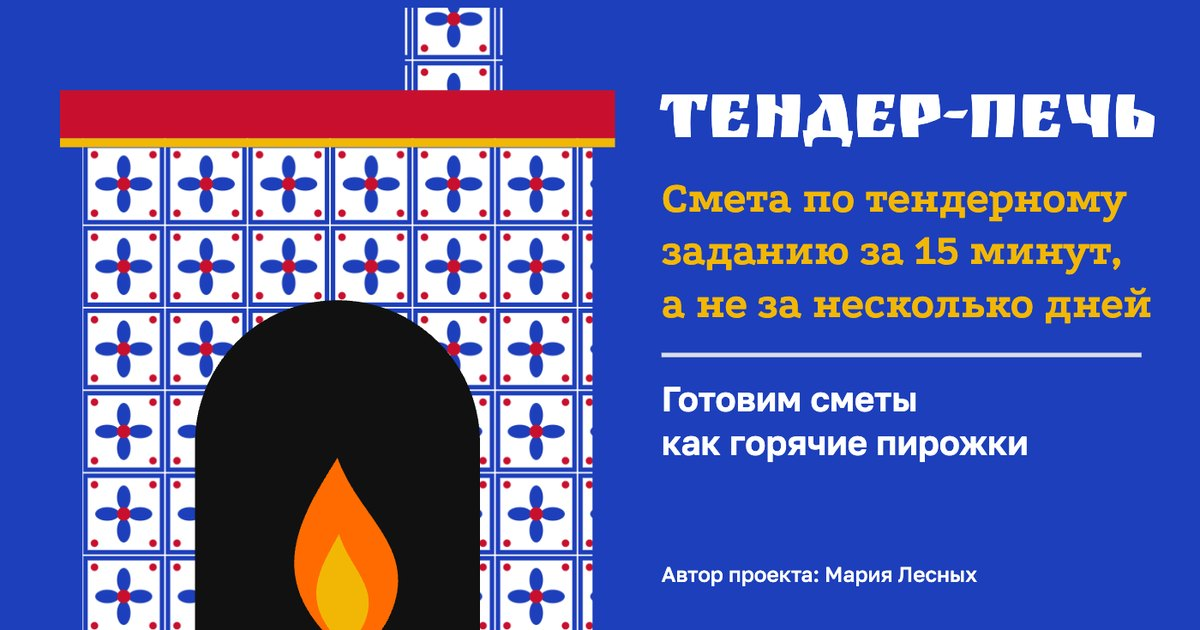
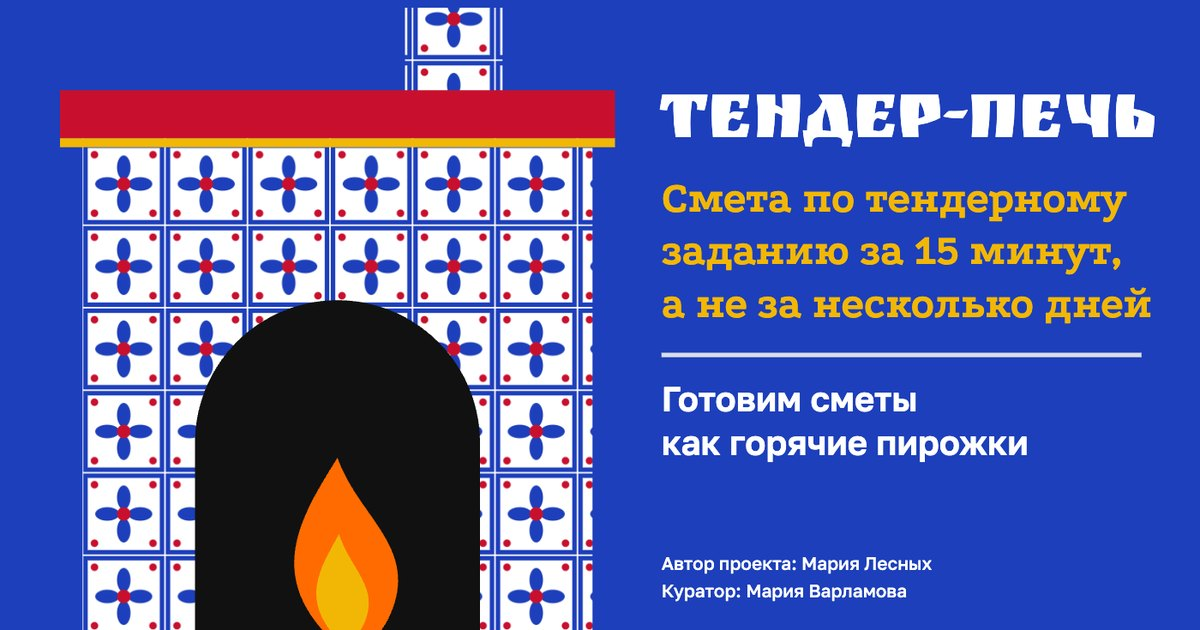
Презентация: «Куратор: Мария Варламова», подписи на первом экране мельче

Changed region(s): [[0.555, 0.8746, 0.8325, 0.9651]]

diff --git a/prezentaciya/index.html b/prezentaciya/index.html
@@ -5,7 +5,7 @@
 <meta name="viewport" content="width=device-width, initial-scale=1, viewport-fit=cover">
 <meta name="robots" content="noindex, nofollow">
 <title>Тендер-Печь · презентация</title>
-<meta name="description" content="Тендер-Печь: смета по тендерному заданию за 15 минут, а не за несколько дней. Разработка тендерного отдела, чтобы быстро считать тендерные предложения и больше зарабатывать. Автор проекта: Мария Лесных.">
+<meta name="description" content="Тендер-Печь: смета по тендерному заданию за 15 минут, а не за несколько дней. Разработка тендерного отдела, чтобы быстро считать тендерные предложения и больше зарабатывать. Автор проекта: Мария Лесных. Куратор: Мария Варламова.">
 <meta property="og:title" content="Тендер-Печь">
 <meta property="og:description" content="Смета по тендерному заданию за 15 минут, а не за несколько дней">
 <meta property="og:type" content="website">
@@ -417,7 +417,7 @@ button{font:inherit}
 <body>
 <svg width="0" height="0" style="position:absolute" aria-hidden="true" focusable="false"><defs><symbol id="i-tz" viewBox="0 0 48 48"><rect width="48" height="48" rx="13" fill="#1D3FBB"/><rect x="4" y="4" width="40" height="40" rx="10" fill="none" stroke="#fff" stroke-opacity=".32" stroke-width="1.5"/><path fill="none" stroke="#fff" stroke-width="3.5" stroke-linecap="round" stroke-linejoin="round" d="M11 11h12l7 7v19H11z M23 11v7h7 M20.5 32V22 M16.5 26l4-4 4 4"/><g transform="translate(30 26) scale(1.05)"><path d="M6 16C1.6 13.2 3 8.4 6 2.5C7.6 6.9 11.6 8.9 10.2 13.1C9.6 14.9 7.9 16.2 6 16Z" fill="#F2B705"/><path d="M6.1 15.2C4.3 13.6 5 11.6 6.1 9.4C6.9 11.4 8.6 12.3 7.9 14C7.6 14.8 6.9 15.3 6.1 15.2Z" fill="#FF6B00"/></g></symbol><symbol id="i-ai" viewBox="0 0 48 48"><rect width="48" height="48" rx="13" fill="#C8102E"/><rect x="4" y="4" width="40" height="40" rx="10" fill="none" stroke="#fff" stroke-opacity=".32" stroke-width="1.5"/><g transform="translate(9 9) scale(2.0)"><path d="M6 16C1.6 13.2 3 8.4 6 2.5C7.6 6.9 11.6 8.9 10.2 13.1C9.6 14.9 7.9 16.2 6 16Z" fill="#F2B705"/><path d="M6.1 15.2C4.3 13.6 5 11.6 6.1 9.4C6.9 11.4 8.6 12.3 7.9 14C7.6 14.8 6.9 15.3 6.1 15.2Z" fill="#FF6B00"/></g><path d="M36 7l1.7 4.3L42 13l-4.3 1.7L36 19l-1.7-4.3L30 13l4.3-1.7z" fill="#fff"/></symbol><symbol id="i-flame" viewBox="0 0 48 48"><rect width="48" height="48" rx="13" fill="#C8102E"/><rect x="4" y="4" width="40" height="40" rx="10" fill="none" stroke="#fff" stroke-opacity=".32" stroke-width="1.5"/><g transform="translate(12 7.5) scale(2.0)"><path d="M6 16C1.6 13.2 3 8.4 6 2.5C7.6 6.9 11.6 8.9 10.2 13.1C9.6 14.9 7.9 16.2 6 16Z" fill="#F2B705"/><path d="M6.1 15.2C4.3 13.6 5 11.6 6.1 9.4C6.9 11.4 8.6 12.3 7.9 14C7.6 14.8 6.9 15.3 6.1 15.2Z" fill="#FF6B00"/></g></symbol><symbol id="i-edit" viewBox="0 0 48 48"><rect width="48" height="48" rx="13" fill="#FF6B00"/><rect x="4" y="4" width="40" height="40" rx="10" fill="none" stroke="#fff" stroke-opacity=".32" stroke-width="1.5"/><path fill="none" stroke="#fff" stroke-width="3.5" stroke-linecap="round" stroke-linejoin="round" d="M11 36l2.2-7.4L28 13.8l5.2 5.2-14.8 14.8z M25 16.8l5.2 5.2"/><g transform="translate(31 26) scale(1.05)"><path d="M6 16C1.6 13.2 3 8.4 6 2.5C7.6 6.9 11.6 8.9 10.2 13.1C9.6 14.9 7.9 16.2 6 16Z" fill="#fff"/><path d="M6.1 15.2C4.3 13.6 5 11.6 6.1 9.4C6.9 11.4 8.6 12.3 7.9 14C7.6 14.8 6.9 15.3 6.1 15.2Z" fill="#F2B705"/></g></symbol><symbol id="i-ok" viewBox="0 0 48 48"><rect width="48" height="48" rx="13" fill="#0F1B4C"/><rect x="4" y="4" width="40" height="40" rx="10" fill="none" stroke="#fff" stroke-opacity=".32" stroke-width="1.5"/><path fill="none" stroke="#fff" stroke-width="3.5" stroke-linecap="round" stroke-linejoin="round" d="M11 24.5l7 7 14-15"/><g transform="translate(31 26) scale(1.05)"><path d="M6 16C1.6 13.2 3 8.4 6 2.5C7.6 6.9 11.6 8.9 10.2 13.1C9.6 14.9 7.9 16.2 6 16Z" fill="#F2B705"/><path d="M6.1 15.2C4.3 13.6 5 11.6 6.1 9.4C6.9 11.4 8.6 12.3 7.9 14C7.6 14.8 6.9 15.3 6.1 15.2Z" fill="#FF6B00"/></g></symbol><symbol id="i-arrow" viewBox="0 0 48 48"><rect width="48" height="48" rx="13" fill="#FF6B00"/><rect x="4" y="4" width="40" height="40" rx="10" fill="none" stroke="#fff" stroke-opacity=".32" stroke-width="1.5"/><path fill="none" stroke="#fff" stroke-width="3.5" stroke-linecap="round" stroke-linejoin="round" d="M11 24h24 M27 16l8 8-8 8"/></symbol><symbol id="i-clock" viewBox="0 0 48 48"><rect width="48" height="48" rx="13" fill="#4A5580"/><rect x="4" y="4" width="40" height="40" rx="10" fill="none" stroke="#fff" stroke-opacity=".32" stroke-width="1.5"/><circle cx="24" cy="24" r="12.5" fill="none" stroke="#fff" stroke-width="3.5" stroke-linecap="round" stroke-linejoin="round"/><path fill="none" stroke="#fff" stroke-width="3.5" stroke-linecap="round" stroke-linejoin="round" d="M24 17v7l5 3.5"/></symbol><symbol id="i-hint" viewBox="0 0 48 48"><rect width="48" height="48" rx="13" fill="#1D3FBB"/><rect x="4" y="4" width="40" height="40" rx="10" fill="none" stroke="#fff" stroke-opacity=".32" stroke-width="1.5"/><path fill="none" stroke="#fff" stroke-width="3.5" stroke-linecap="round" stroke-linejoin="round" d="M18.5 31.5c-3.3-2.4-5.5-5.6-5.5-9.5a11 11 0 0 1 22 0c0 3.9-2.2 7.1-5.5 9.5v4h-11z M19 40h10"/><g transform="translate(18 15) scale(1.0)"><path d="M6 16C1.6 13.2 3 8.4 6 2.5C7.6 6.9 11.6 8.9 10.2 13.1C9.6 14.9 7.9 16.2 6 16Z" fill="#F2B705"/><path d="M6.1 15.2C4.3 13.6 5 11.6 6.1 9.4C6.9 11.4 8.6 12.3 7.9 14C7.6 14.8 6.9 15.3 6.1 15.2Z" fill="#FF6B00"/></g></symbol></defs></svg>
 <div class="wrap">
-  <header class="hero"><h1>Тендер-Печь: смета по тендерному заданию за 15 минут, а не за несколько дней</h1><svg data-art="плакат" class="hero-svg desk" viewBox="0 0 1600 900" role="img" aria-label="Тендер-Печь. Смета по тендерному заданию за 15 минут, а не за несколько дней. Готовим сметы как горячие пирожки. Автор проекта: Мария Лесных">
+  <header class="hero"><h1>Тендер-Печь: смета по тендерному заданию за 15 минут, а не за несколько дней</h1><svg data-art="плакат" class="hero-svg desk" viewBox="0 0 1600 900" role="img" aria-label="Тендер-Печь. Смета по тендерному заданию за 15 минут, а не за несколько дней. Готовим сметы как горячие пирожки. Автор проекта: Мария Лесных. Куратор: Мария Варламова">
 <defs><pattern id="p10d" width="110" height="110" patternUnits="userSpaceOnUse">
 <rect width="110" height="110" fill="#FFFFFF"/><rect x="4" y="4" width="102" height="102" fill="none" stroke="#1D3FBB" stroke-width="6"/>
 <ellipse cx="55" cy="33" rx="9" ry="16" fill="#1D3FBB"/><ellipse cx="55" cy="77" rx="9" ry="16" fill="#1D3FBB"/>
@@ -436,21 +436,23 @@ button{font:inherit}
 <text class="ht" x="882" y="312" font-family="Podkova,Georgia,serif" font-weight="700" font-size="58" fill="#F2B705">Смета по тендерному</text><text class="ht" x="882" y="382" font-family="Podkova,Georgia,serif" font-weight="700" font-size="58" fill="#F2B705">заданию за 15 минут,</text><text class="ht" x="882" y="452" font-family="Podkova,Georgia,serif" font-weight="700" font-size="58" fill="#F2B705">а не за несколько дней</text>
 <rect x="882" y="500" width="640" height="6" fill="#D9DEEA"/>
 <text class="ht" x="882" y="578" font-family="'Golos Text',Arial,sans-serif" font-weight="600" font-size="46" fill="#FFFFFF">Готовим сметы</text><text class="ht" x="882" y="636" font-family="'Golos Text',Arial,sans-serif" font-weight="600" font-size="46" fill="#FFFFFF">как горячие пирожки</text>
-<text class="ht" x="882" y="806" font-family="'Golos Text',Arial,sans-serif" font-weight="500" font-size="28" fill="#FFFFFF">Автор проекта: Мария Лесных</text>
-</svg><svg data-art="плакат" class="hero-svg mob" viewBox="0 0 800 1070" role="img" aria-label="Тендер-Печь. Смета по тендерному заданию за 15 минут, а не за несколько дней. Готовим сметы как горячие пирожки. Автор проекта: Мария Лесных">
+<text class="ht" x="882" y="790" font-family="'Golos Text',Arial,sans-serif" font-weight="500" font-size="24" fill="#FFFFFF">Автор проекта: Мария Лесных</text>
+<text class="ht" x="882" y="826" font-family="'Golos Text',Arial,sans-serif" font-weight="500" font-size="24" fill="#FFFFFF">Куратор: Мария Варламова</text>
+</svg><svg data-art="плакат" class="hero-svg mob" viewBox="0 0 800 1100" role="img" aria-label="Тендер-Печь. Смета по тендерному заданию за 15 минут, а не за несколько дней. Готовим сметы как горячие пирожки. Автор проекта: Мария Лесных. Куратор: Мария Варламова">
 <defs><pattern id="p10m" width="110" height="110" patternUnits="userSpaceOnUse">
 <rect width="110" height="110" fill="#FFFFFF"/><rect x="4" y="4" width="102" height="102" fill="none" stroke="#1D3FBB" stroke-width="6"/>
 <ellipse cx="55" cy="33" rx="9" ry="16" fill="#1D3FBB"/><ellipse cx="55" cy="77" rx="9" ry="16" fill="#1D3FBB"/>
 <ellipse cx="33" cy="55" rx="16" ry="9" fill="#1D3FBB"/><ellipse cx="77" cy="55" rx="16" ry="9" fill="#1D3FBB"/>
 <circle cx="55" cy="55" r="9" fill="#C8102E"/>
 <circle cx="16" cy="16" r="5" fill="#C8102E"/><circle cx="94" cy="16" r="5" fill="#C8102E"/><circle cx="16" cy="94" r="5" fill="#C8102E"/><circle cx="94" cy="94" r="5" fill="#C8102E"/>
-</pattern></defs><rect width="800" height="1070" fill="#1D3FBB"/>
+</pattern></defs><rect width="800" height="1100" fill="#1D3FBB"/>
 <text class="ht" x="400" y="130" text-anchor="middle" textLength="660" lengthAdjust="spacingAndGlyphs" font-family="'Ruslan Display','Times New Roman',serif" font-size="112" fill="#FFFFFF">ТЕНДЕР-ПЕЧЬ</text>
 <text class="ht" x="400" y="222" text-anchor="middle" font-family="Podkova,Georgia,serif" font-weight="700" font-size="52" fill="#F2B705">Смета по тендерному</text><text class="ht" x="400" y="286" text-anchor="middle" font-family="Podkova,Georgia,serif" font-weight="700" font-size="52" fill="#F2B705">заданию за 15 минут,</text><text class="ht" x="400" y="350" text-anchor="middle" font-family="Podkova,Georgia,serif" font-weight="700" font-size="52" fill="#F2B705">а не за несколько дней</text>
 <rect x="110" y="384" width="580" height="5" fill="#D9DEEA"/>
 <text class="ht" x="400" y="444" text-anchor="middle" font-family="'Golos Text',Arial,sans-serif" font-weight="600" font-size="34" fill="#FFFFFF">Готовим сметы как горячие пирожки</text>
-<text class="ht" x="400" y="500" text-anchor="middle" font-family="'Golos Text',Arial,sans-serif" font-weight="500" font-size="28" fill="#FFFFFF">Автор проекта: Мария Лесных</text>
-<g transform="translate(400 540) scale(.6) translate(-450 -40)">
+<text class="ht" x="400" y="496" text-anchor="middle" font-family="'Golos Text',Arial,sans-serif" font-weight="500" font-size="27" fill="#FFFFFF">Автор проекта: Мария Лесных</text>
+<text class="ht" x="400" y="532" text-anchor="middle" font-family="'Golos Text',Arial,sans-serif" font-weight="500" font-size="27" fill="#FFFFFF">Куратор: Мария Варламова</text>
+<g transform="translate(400 572) scale(.6) translate(-450 -40)">
 <rect x="540" y="40" width="130" height="140" fill="url(#p10m)"/>
 <rect x="110" y="200" width="680" height="700" fill="url(#p10m)"/>
 <rect x="80" y="150" width="740" height="64" fill="#C8102E"/>
